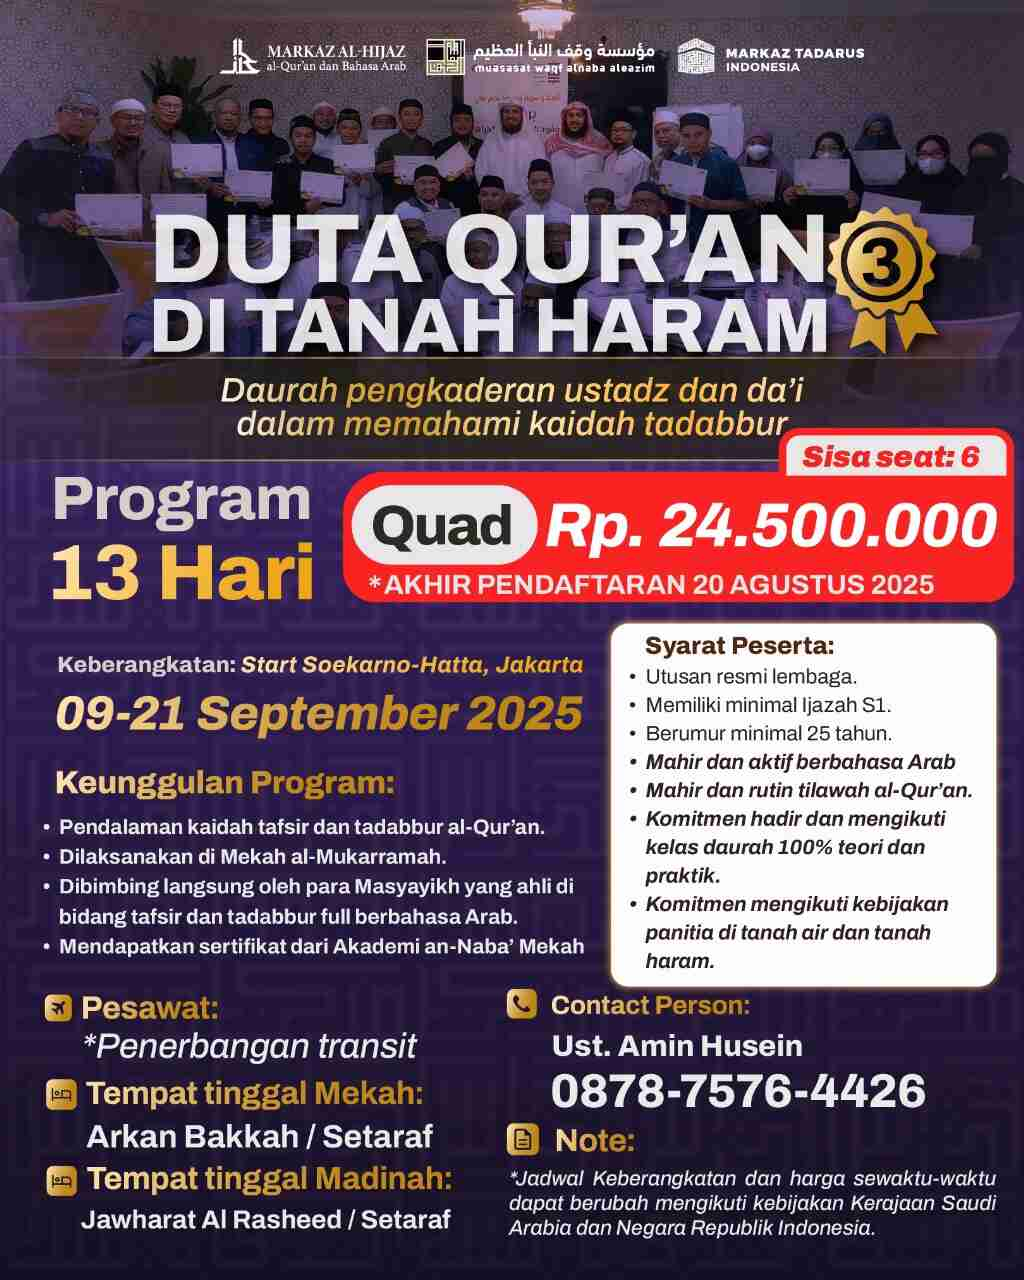
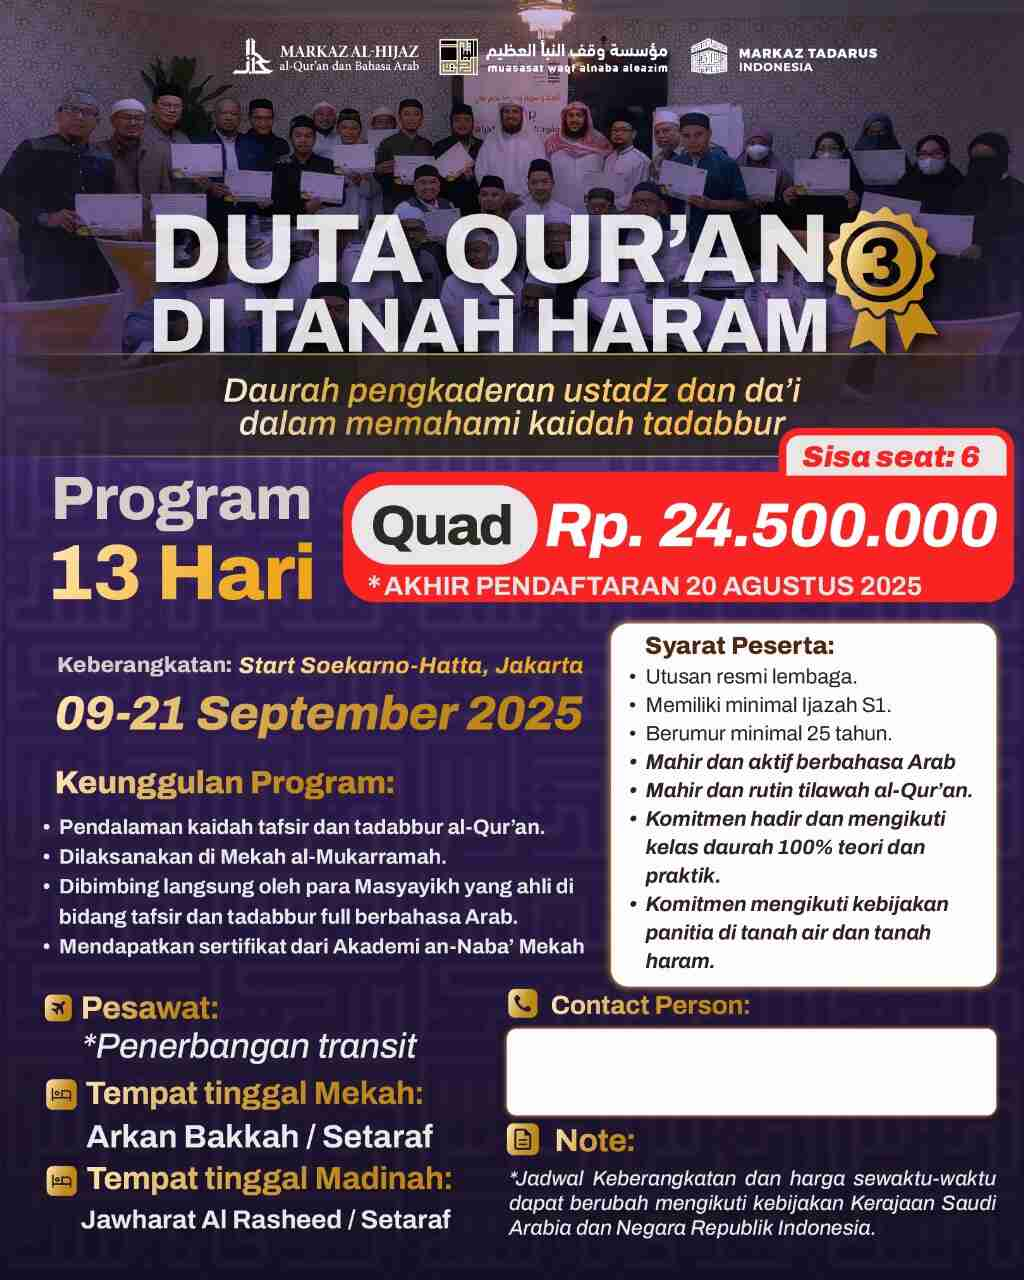
⬆ pelatihan init. change brochure, config redirect

diff --git a/src/components/Redirects/config.js b/src/components/Redirects/config.js
@@ -29,5 +29,8 @@ export const redirects = {
   "https://docs.google.com/forms/d/e/1FAIpQLSceWhxoITYZn8hOYqHicftL7OqHtgaCNHC9Sqf6FGlTgGsONw/viewform",
 
   "QuesionerGuru-TP2Q":
-  "https://docs.google.com/forms/d/e/1FAIpQLSf5vMYpndPvwcqD8hy9TmkPbKAiAC1hbQVlQhrccc2kJ9TPhA/viewform"
+  "https://docs.google.com/forms/d/e/1FAIpQLSf5vMYpndPvwcqD8hy9TmkPbKAiAC1hbQVlQhrccc2kJ9TPhA/viewform",
+
+  "KuesionerPeserta-BaitulMukhlisin":
+  "https://docs.google.com/forms/d/e/1FAIpQLSfon98wJgsbr_qJIOsTDNNOc_7z9EgQWjTRSip2AvcrgWVtqw/viewform"
 };
